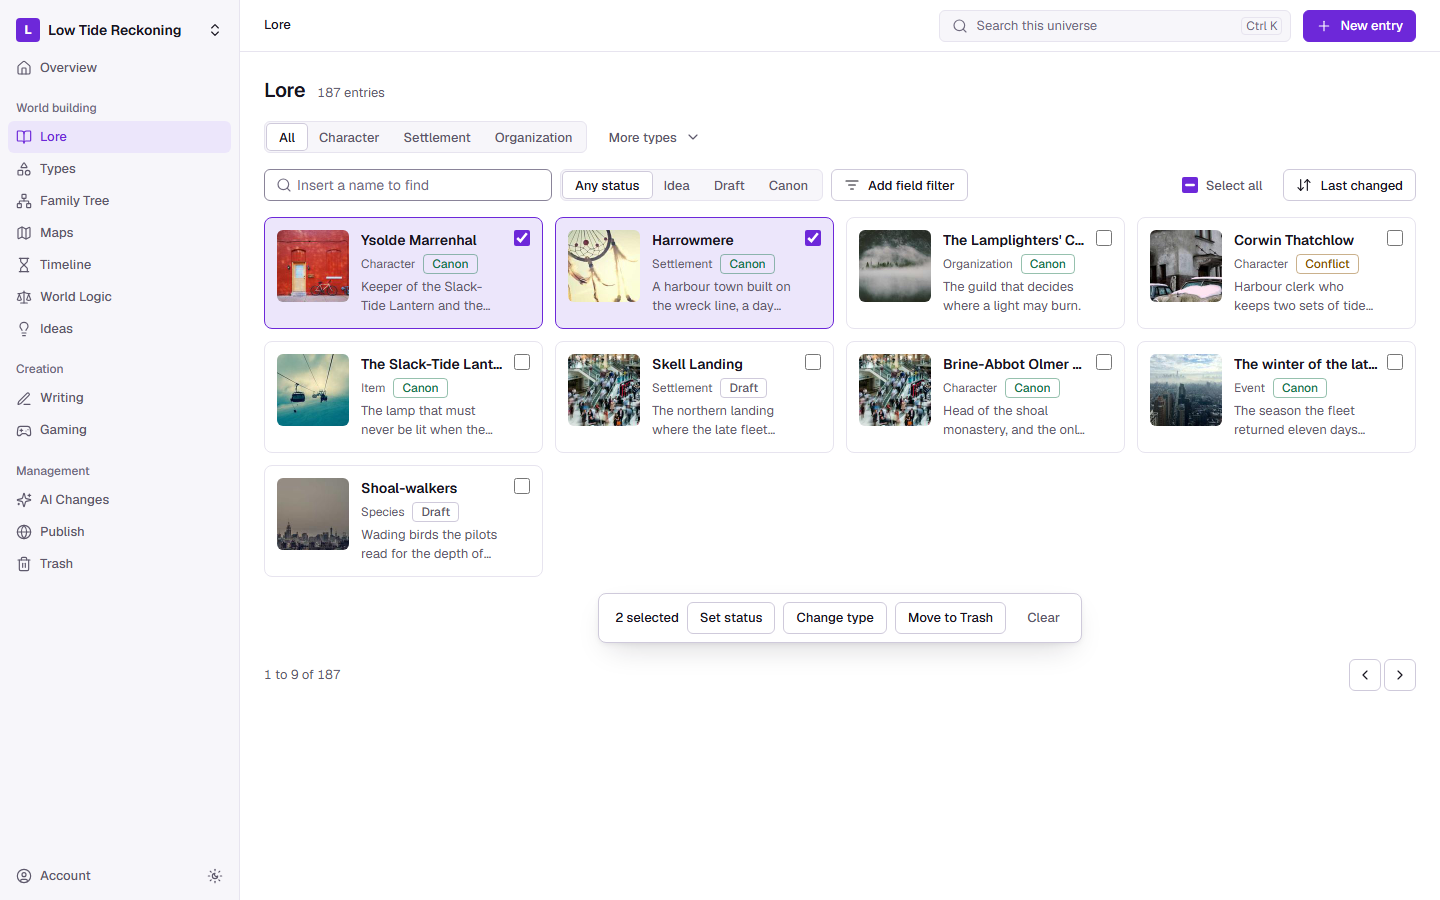
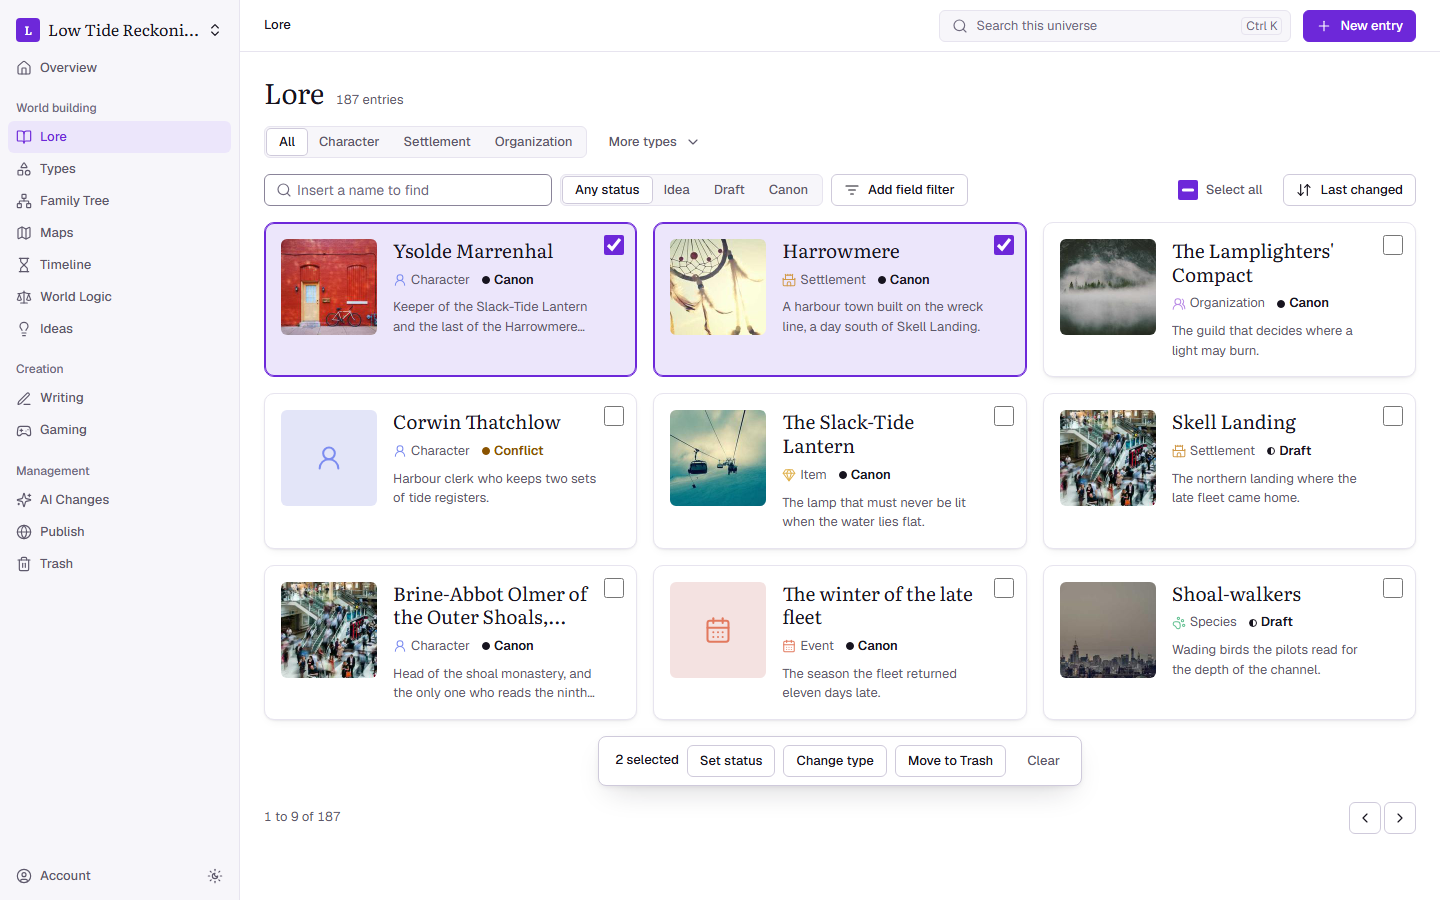
[DOCS] Workspace redesign mock: keep the current card's character (#562)
The owner asked on 2026-11-22 to keep the look of today's entity card and build on it. The mock's card now has the large picture, the name in the reading serif, the type's own icon and colour, the status as a dot and a word, and a raised surface that lifts. Page and document titles keep the serif too.

diff --git a/docs/design/evidence/562/mock/kit-data.css b/docs/design/evidence/562/mock/kit-data.css
@@ -1,10 +1,11 @@
 /* Workspace redesign (#562): kit parts that hold data. No table: lists of things are cards, short lists are rows. */
 
-/* Card: one thing in a list. Picture, name, type, state. Selectable. */
+/* Card: today's entity card, kept. A large picture, the name in the reading serif, the type with its own icon and
+   colour, the status as a dot and a word, two lines of summary. It rests on a raised surface and lifts when pointed at. */
 .cards {
   display: grid;
-  grid-template-columns: repeat(auto-fill, minmax(17rem, 1fr));
-  gap: var(--s3);
+  grid-template-columns: repeat(auto-fill, minmax(21rem, 1fr));
+  gap: var(--s4);
   margin: 0;
   padding: 0;
   list-style: none;
@@ -13,49 +14,67 @@
 .card {
   position: relative;
   display: grid;
-  grid-template-columns: 4.5rem minmax(0, 1fr);
-  gap: var(--s3);
-  padding: var(--s3);
+  grid-template-columns: 6rem minmax(0, 1fr);
+  gap: var(--s4);
+  padding: var(--s4);
   border: 1px solid var(--line);
-  border-radius: var(--r-panel);
+  border-radius: 10px;
   background: var(--bg-raised);
+  box-shadow: var(--shadow-card);
   transition:
     border-color var(--fast) var(--ease),
-    background var(--fast) var(--ease);
+    box-shadow var(--slow) var(--ease),
+    transform var(--slow) var(--ease);
 }
 
 .card:hover {
   border-color: var(--line-strong);
-  background: var(--bg-hover);
+  box-shadow: var(--shadow-raised);
+  transform: translateY(-2px);
 }
 
 .card:has(.card__pick:checked) {
   border-color: var(--accent-text);
   background: var(--bg-selected);
+  box-shadow: inset 0 0 0 1px var(--accent-text);
 }
 
 .card__picture {
-  width: 4.5rem;
-  height: 4.5rem;
+  display: grid;
+  place-items: center;
+  width: 6rem;
+  height: 6rem;
   border-radius: var(--r-control);
-  background: var(--bg-selected);
   object-fit: cover;
 }
 
+/* No picture yet: a tile in the type's colour with the type's icon. */
+.card__picture--blank {
+  background: color-mix(in srgb, var(--type) 16%, var(--bg-subtle));
+  color: var(--type);
+}
+
+.card__picture--blank svg.lucide {
+  width: 1.75rem;
+  height: 1.75rem;
+}
+
 .card__body {
-  display: grid;
-  align-content: start;
+  display: flex;
+  flex-direction: column;
   gap: var(--s1);
   min-width: 0;
   padding-right: var(--s5);
 }
 
 .card__name {
+  display: -webkit-box;
   overflow: hidden;
-  font-size: var(--text-body);
-  font-weight: 600;
-  text-overflow: ellipsis;
-  white-space: nowrap;
+  font: 500 1.1875rem / 1.25 var(--font-read);
+  overflow-wrap: anywhere;
+  -webkit-box-orient: vertical;
+  -webkit-line-clamp: 2;
+  line-clamp: 2;
 }
 
 /* The whole card opens the entry; the checkbox sits above the link. */
@@ -67,17 +86,63 @@
 
 .card__meta {
   display: flex;
+  flex-wrap: wrap;
   align-items: center;
-  gap: var(--s2);
+  gap: var(--s1) var(--s3);
+  margin-top: var(--s1);
   color: var(--text-muted);
-  font-size: var(--text-meta);
+  font-size: var(--text-ui);
+}
+
+.card__type {
+  display: inline-flex;
+  align-items: center;
+  gap: var(--s1);
+}
+
+.card__type svg.lucide {
+  width: 0.875rem;
+  height: 0.875rem;
+  color: var(--type);
+}
+
+/* Status: a dot and a word, never colour alone. Canon is full, Draft is half, Idea is hollow. */
+.status {
+  display: inline-flex;
+  align-items: center;
+  gap: var(--s1);
+  color: var(--text);
+  font-weight: 600;
+}
+
+.status::before {
+  width: 0.5rem;
+  height: 0.5rem;
+  border: 1.5px solid currentColor;
+  border-radius: 50%;
+  background: currentColor;
+  content: '';
+}
+
+.status--draft::before {
+  background: linear-gradient(90deg, currentColor 50%, transparent 50%);
+}
+
+.status--idea::before {
+  background: transparent;
+}
+
+.status--conflict {
+  color: var(--warning);
 }
 
 .card__summary {
   display: -webkit-box;
   overflow: hidden;
+  margin-top: var(--s1);
   color: var(--text-muted);
   font-size: var(--text-ui);
+  line-height: 1.5;
   -webkit-box-orient: vertical;
   -webkit-line-clamp: 2;
   line-clamp: 2;
@@ -85,8 +150,8 @@
 
 .card__pick,
 .check {
-  width: 1rem;
-  height: 1rem;
+  width: 1.25rem;
+  height: 1.25rem;
   margin: 0;
   accent-color: var(--accent);
 }

diff --git a/docs/design/evidence/562/mock/mock.js b/docs/design/evidence/562/mock/mock.js
@@ -22,22 +22,42 @@ const RECENT = [
   ['Harrowmere harbour map', 'Map, yesterday'],
   ['A lantern is never lit at slack tide', 'World rule, 3 days ago'],
 ]
-const STAMP = { Canon: 'stamp--ok', Conflict: 'stamp--warn', Draft: '' }
+const TYPE = {
+  Character: ['user-round', '#7c8cf0'],
+  Settlement: ['castle', '#d19a4a'],
+  Organization: ['users-round', '#b98ae6'],
+  Item: ['gem', '#e0b24f'],
+  Event: ['calendar-days', '#e2795e'],
+  Species: ['paw-print', '#5fbf8f'],
+}
+const BLANK = new Set(['Corwin Thatchlow', 'The winter of the late fleet'])
 
 const app = document.getElementById('app')
 const screen = document.getElementById('screen')
 const slots = { crumbs: document.getElementById('crumbs'), actions: document.getElementById('actions') }
 const params = new URLSearchParams(location.search)
 
-const card = ([name, type, canon, summary], index) => `<li class="card">
-  <img class="card__picture" alt="" src="https://picsum.photos/seed/${encodeURIComponent(name.slice(0, 12))}/144/144" />
+const picture = (name, icon) =>
+  BLANK.has(name)
+    ? `<span class="card__picture card__picture--blank"><i data-lucide="${icon}"></i></span>`
+    : `<img class="card__picture" alt="" src="https://picsum.photos/seed/${encodeURIComponent(name.slice(0, 12))}/192/192" />`
+
+const card = ([name, type, status, summary], index) => {
+  const [icon, colour] = TYPE[type]
+  const picked = index < Number(params.get('picked') ?? 0) ? 'checked' : ''
+  return `<li class="card" style="--type: ${colour}">
+  ${picture(name, icon)}
   <div class="card__body">
     <a class="card__name" href="#entry"><bdi>${name}</bdi></a>
-    <span class="card__meta">${type}<span class="stamp ${STAMP[canon]}">${canon}</span></span>
+    <span class="card__meta">
+      <span class="card__type"><i data-lucide="${icon}"></i>${type}</span>
+      <span class="status status--${status.toLowerCase()}">${status}</span>
+    </span>
     <span class="card__summary">${summary}</span>
   </div>
-  <input class="card__pick" type="checkbox" aria-label="Select ${name}" ${index < Number(params.get('picked') ?? 0) ? 'checked' : ''} />
+  <input class="card__pick" type="checkbox" aria-label="Select ${name}" ${picked} />
 </li>`
+}
 
 function selection() {
   const picks = [...document.querySelectorAll('.card__pick')]

diff --git a/docs/design/evidence/562/mock/tokens.css b/docs/design/evidence/562/mock/tokens.css
@@ -32,6 +32,7 @@
   --warning: #8a5300;
   --success: #17754b;
 
+  --shadow-card: 0 1px 2px rgb(23 20 31 / 0.06), 0 4px 12px -6px rgb(23 20 31 / 0.12);
   --shadow-raised: 0 12px 32px -12px rgb(23 20 31 / 0.22), 0 2px 6px -2px rgb(23 20 31 / 0.1);
 
   /* Type: three UI sizes and two titles */
@@ -71,7 +72,7 @@
 
   --bg: #0a0a0b;
   --bg-subtle: #101012;
-  --bg-raised: #17171a;
+  --bg-raised: #151517;
   --bg-hover: #1b1b1f;
   --bg-selected: #2b1218;
   --backdrop: rgb(0 0 0 / 0.6);
@@ -93,5 +94,6 @@
   --warning: #e7b35a;
   --success: #5fcf9a;
 
+  --shadow-card: 0 1px 2px rgb(0 0 0 / 0.5), 0 6px 16px -8px rgb(0 0 0 / 0.7);
   --shadow-raised: 0 16px 40px -12px rgb(0 0 0 / 0.8), 0 2px 6px -2px rgb(0 0 0 / 0.6);
 }

diff --git a/docs/design/evidence/562/mock/pages.css b/docs/design/evidence/562/mock/pages.css
@@ -13,8 +13,7 @@
 }
 
 .page__title {
-  font-size: var(--text-title);
-  font-weight: 600;
+  font: 500 1.75rem / 1.2 var(--font-read);
   letter-spacing: -0.01em;
 }
 
@@ -60,10 +59,8 @@
 }
 
 .detail__title {
-  font-size: var(--text-document);
-  font-weight: 600;
-  letter-spacing: -0.02em;
-  line-height: 1.15;
+  font: 500 2.25rem / 1.15 var(--font-read);
+  letter-spacing: -0.015em;
   text-wrap: balance;
 }
 
@@ -201,4 +198,8 @@
 .filterbox .input {
   min-height: var(--control-h);
   padding: 0 var(--s3) 0 var(--s6);
+}
+
+.selection[hidden] {
+  display: none;
 }

diff --git a/docs/design/evidence/562/mock/shell.css b/docs/design/evidence/562/mock/shell.css
@@ -29,7 +29,7 @@
   border-radius: var(--r-control);
   background: transparent;
   color: var(--text);
-  font: 600 var(--text-body) / 1.2 var(--font-ui);
+  font: 500 1rem / 1.2 var(--font-read);
   text-align: left;
   cursor: pointer;
 }
